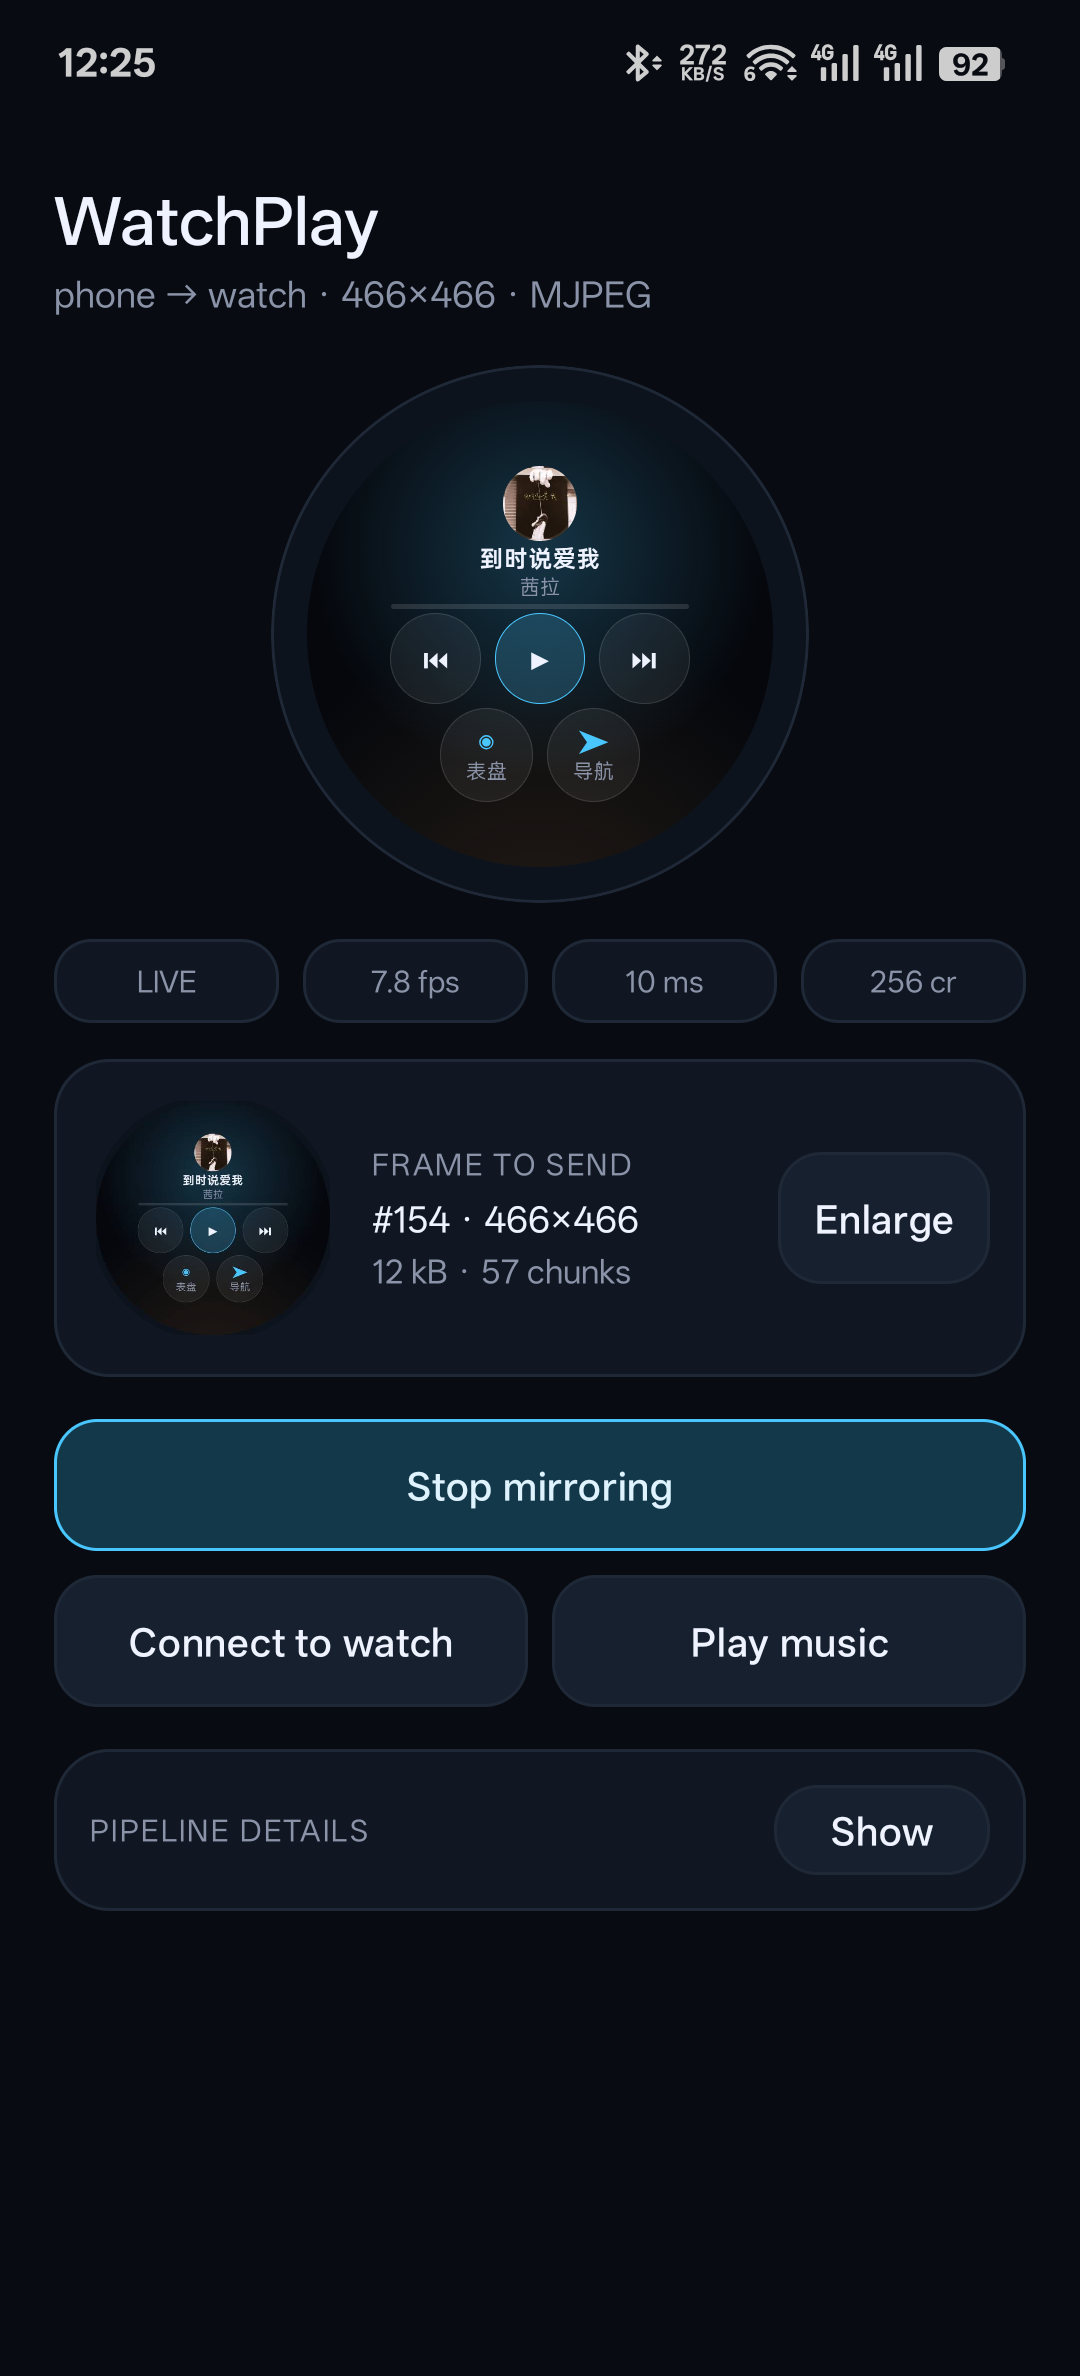
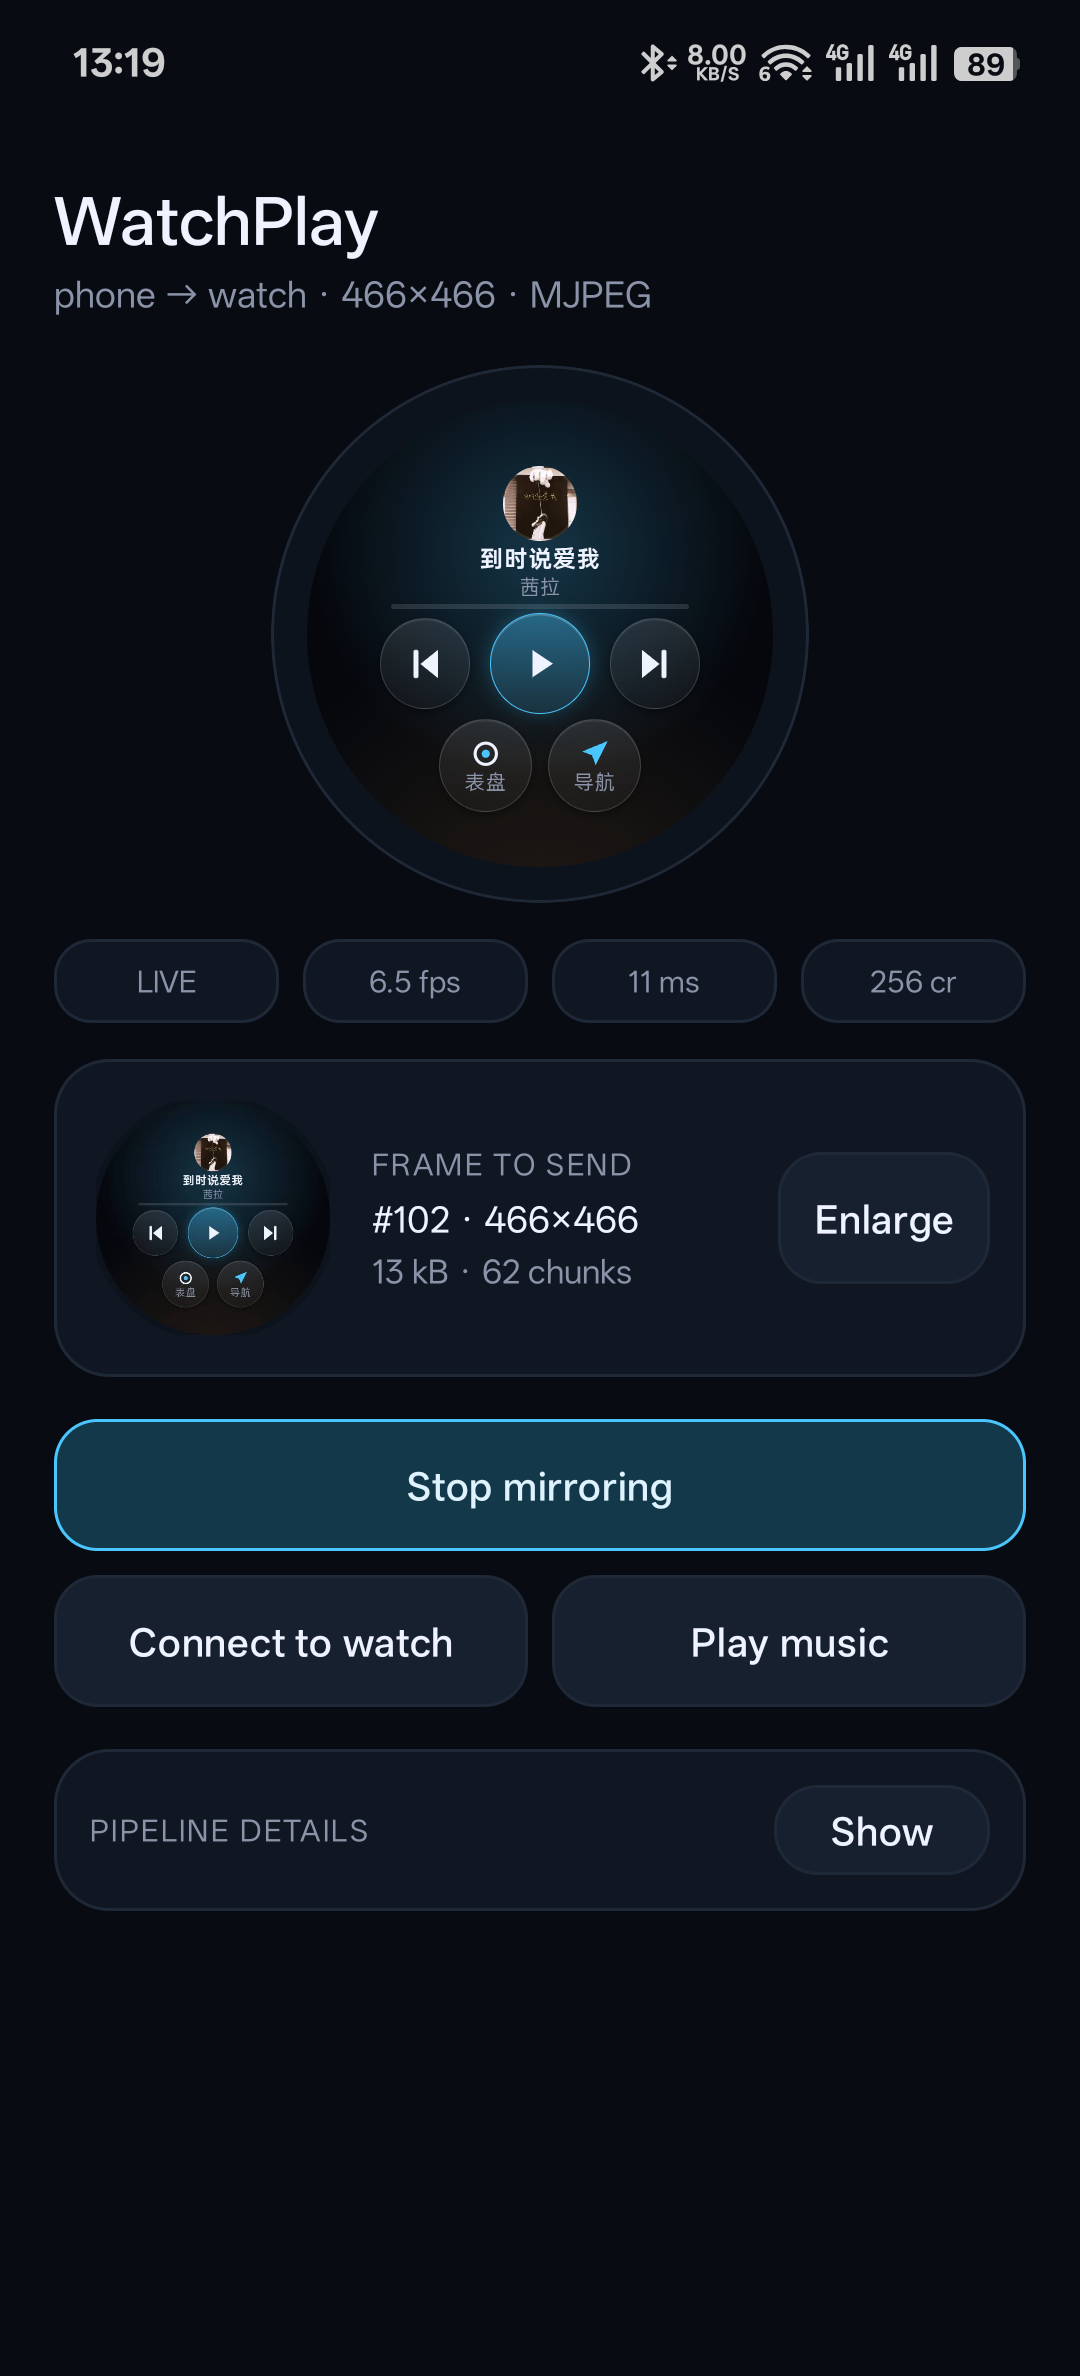
demo: draw the scene's buttons instead of styling characters
The controls were flat circles around text glyphs (⏮ ▶ ⏭ ♪ ➤ ◉). The triangle never sat in the middle
of its circle because the advance width of a font glyph is not its ink, the stroke weights differed per
platform font, and swapping play/pause meant rewriting `textContent`. They are inline SVG on a 24×24
grid now — optical centres, one weight, and the two play states are a `data-playing` attribute.

The buttons themselves carry a vertical gradient, an inner highlight and a drop shadow, so at 466 px and
10 fps they read as raised surfaces rather than a translucent wash; the primary control gets a cyan ring
and glow to stay the one obvious target.

diff --git a/examples/watch-ui/demo-scene.html b/examples/watch-ui/demo-scene.html
@@ -70,17 +70,31 @@ html,body{
 
 /* ---------------------------------------------------------------- 底部切换 */
 /* 只放"别的页面"：当前页面不给自己的入口，也不会和场景里的按钮重复。 */
-.tabs{ display:flex; gap:3vmin; align-items:center; justify-content:center; }
-.btn-switch{
-  width:20vmin; height:20vmin; border-radius:50%;
-  display:flex; flex-direction:column; align-items:center; justify-content:center; gap:.5vmin;
-  background:rgba(255,255,255,.06); border:.35vmin solid rgba(255,255,255,.12);
-  color:var(--wp-fg); font-size:4.4vmin; font-family:inherit;
-  transition:background .12s linear, border-color .12s linear;
+.tabs{ display:flex; gap:3.4vmin; align-items:center; justify-content:center; }
+/*
+  按钮的三层不再是"一个半透明圆 + 一条细边"：竖向渐变给一点厚度，内高光把上沿点亮，
+  外投影让它离开背景。10 fps 捕获下，这比纯平色更容易看出是个可按的实体。
+*/
+.btn-switch, .btn-ctl{
+  position:relative; margin:0; padding:0; border-radius:50%;
+  display:flex; align-items:center; justify-content:center;
+  background:linear-gradient(180deg, rgba(255,255,255,.105), rgba(255,255,255,.032));
+  border:.35vmin solid rgba(255,255,255,.14);
+  box-shadow:inset 0 .35vmin 0 rgba(255,255,255,.075), 0 .7vmin 1.8vmin rgba(0,0,0,.38);
+  color:var(--wp-fg); font-family:inherit;
+  transition:background .1s linear, border-color .1s linear, transform .1s ease-out, box-shadow .1s linear;
 }
-.btn-switch .ico{ font-size:7vmin; line-height:1; color:var(--wp-accent); }
-.btn-switch .lbl{ font-size:4.4vmin; color:var(--wp-dim); }
-.btn-switch:active{ background:rgba(74,198,255,.22); border-color:var(--wp-accent); }
+.btn-switch:active, .btn-ctl:active{ transform:scale(.955); }
+
+.btn-switch{
+  width:20vmin; height:20vmin; flex-direction:column; gap:.7vmin;
+}
+.btn-switch svg{ width:7.2vmin; height:7.2vmin; fill:var(--wp-accent); }
+.btn-switch .lbl{ font-size:4.4vmin; line-height:1; color:var(--wp-dim); letter-spacing:.1vmin; }
+.btn-switch:active{
+  background:linear-gradient(180deg, rgba(74,198,255,.30), rgba(74,198,255,.10));
+  border-color:var(--wp-accent);
+}
 
 /* ---------------------------------------------------------------- 表盘 */
 .bg-face{
@@ -135,17 +149,25 @@ html,body{
   overflow:hidden;
 }
 .progress i{ display:block; width:38%; height:100%; background:var(--wp-accent); }
-.controls{ display:flex; gap:3vmin; align-items:center; }
-.btn-ctl{
-  width:19.4vmin; height:19.4vmin; border-radius:50%;
-  display:flex; align-items:center; justify-content:center;
-  background:rgba(255,255,255,.06); border:.35vmin solid rgba(255,255,255,.12);
-  color:var(--wp-fg); font-size:5.6vmin; font-family:inherit;
-}
+.controls{ display:flex; gap:4.2vmin; align-items:center; }
+.btn-ctl{ width:19.4vmin; height:19.4vmin; }
+/* 图标用内联 SVG 而不是 ⏮▶⏭ 字符：字形宽度随系统字体变，播放三角在圆里永远偏右。 */
+.btn-ctl svg{ width:52%; height:52%; fill:currentColor; }
 .btn-ctl[data-primary="1"]{
-  background:rgba(74,198,255,.20); border-color:var(--wp-accent); font-size:6.4vmin;
+  width:21.6vmin; height:21.6vmin;
+  background:linear-gradient(180deg, rgba(74,198,255,.40), rgba(74,198,255,.14));
+  border-color:var(--wp-accent);
+  box-shadow:0 0 3.4vmin rgba(74,198,255,.32),
+             inset 0 .35vmin 0 rgba(255,255,255,.18),
+             0 .8vmin 2.2vmin rgba(0,0,0,.42);
 }
-.btn-ctl:active{ background:rgba(74,198,255,.30); }
+.btn-ctl[data-primary="1"] svg{ width:46%; height:46%; }
+.btn-ctl:active{ background:linear-gradient(180deg, rgba(255,255,255,.16), rgba(255,255,255,.06)); }
+.btn-ctl[data-primary="1"]:active{ background:linear-gradient(180deg, rgba(74,198,255,.52), rgba(74,198,255,.22)); }
+/* 播放/暂停是同一个按钮的两态：由 dataset.playing 切换，不用再改写 textContent。 */
+.btn-ctl .ico-pause{ display:none; }
+.btn-ctl[data-playing="1"] .ico-play{ display:none; }
+.btn-ctl[data-playing="1"] .ico-pause{ display:block; }
 
 /* ---------------------------------------------------------------- 导航 */
 .bg-map{ overflow:hidden; }
@@ -201,8 +223,8 @@ html,body{
     </div>
 
     <div class="tabs">
-      <button class="btn-switch" data-goto="music"><span class="ico">♪</span><span class="lbl">音乐</span></button>
-      <button class="btn-switch" data-goto="map"><span class="ico">➤</span><span class="lbl">导航</span></button>
+      <button class="btn-switch" data-goto="music"><svg viewBox="0 0 24 24" aria-hidden="true"><rect x="14.4" y="3.4" width="1.9" height="10.4" rx=".9"/><path d="M16.3 3.4 20.6 2.2v3.1l-4.3 1.3z"/><ellipse cx="12.2" cy="14.9" rx="3.1" ry="2.5"/></svg><span class="lbl">音乐</span></button>
+      <button class="btn-switch" data-goto="map"><svg viewBox="0 0 24 24" aria-hidden="true"><path d="M21.4 2.8 2.9 10.4l7.1 2.6 2.6 7.1z"/></svg><span class="lbl">导航</span></button>
     </div>
   </div>
 </section>
@@ -222,14 +244,14 @@ html,body{
     <div class="progress"><i id="progress-bar"></i></div>
 
     <div class="controls">
-      <button class="btn-ctl" data-ctl="prev" aria-label="上一首">⏮</button>
-      <button class="btn-ctl" data-ctl="play" data-primary="1" aria-label="播放/暂停">▶</button>
-      <button class="btn-ctl" data-ctl="next" aria-label="下一首">⏭</button>
+      <button class="btn-ctl" data-ctl="prev" aria-label="上一首"><svg viewBox="0 0 24 24" aria-hidden="true"><rect x="6" y="4.6" width="2.6" height="14.8" rx="1.1"/><polygon points="18.8,4.6 9.6,12 18.8,19.4"/></svg></button>
+      <button class="btn-ctl" data-ctl="play" data-primary="1" data-playing="0" aria-label="播放/暂停"><svg class="ico-play" viewBox="0 0 24 24" aria-hidden="true"><polygon points="8.2,4.8 19,12 8.2,19.2"/></svg><svg class="ico-pause" viewBox="0 0 24 24" aria-hidden="true"><rect x="7.2" y="4.6" width="3.5" height="14.8" rx="1.2"/><rect x="13.3" y="4.6" width="3.5" height="14.8" rx="1.2"/></svg></button>
+      <button class="btn-ctl" data-ctl="next" aria-label="下一首"><svg viewBox="0 0 24 24" aria-hidden="true"><rect x="15.4" y="4.6" width="2.6" height="14.8" rx="1.1"/><polygon points="5.2,4.6 14.4,12 5.2,19.4"/></svg></button>
     </div>
 
     <div class="tabs">
-      <button class="btn-switch" data-goto="face"><span class="ico">◉</span><span class="lbl">表盘</span></button>
-      <button class="btn-switch" data-goto="map"><span class="ico">➤</span><span class="lbl">导航</span></button>
+      <button class="btn-switch" data-goto="face"><svg viewBox="0 0 24 24" aria-hidden="true"><circle cx="12" cy="12" r="7.6" fill="none" stroke="currentColor" stroke-width="2.2"/><circle cx="12" cy="12" r="2.9"/></svg><span class="lbl">表盘</span></button>
+      <button class="btn-switch" data-goto="map"><svg viewBox="0 0 24 24" aria-hidden="true"><path d="M21.4 2.8 2.9 10.4l7.1 2.6 2.6 7.1z"/></svg><span class="lbl">导航</span></button>
     </div>
   </div>
 </section>
@@ -264,8 +286,8 @@ html,body{
     </div>
 
     <div class="tabs">
-      <button class="btn-switch" data-goto="face"><span class="ico">◉</span><span class="lbl">表盘</span></button>
-      <button class="btn-switch" data-goto="music"><span class="ico">♪</span><span class="lbl">音乐</span></button>
+      <button class="btn-switch" data-goto="face"><svg viewBox="0 0 24 24" aria-hidden="true"><circle cx="12" cy="12" r="7.6" fill="none" stroke="currentColor" stroke-width="2.2"/><circle cx="12" cy="12" r="2.9"/></svg><span class="lbl">表盘</span></button>
+      <button class="btn-switch" data-goto="music"><svg viewBox="0 0 24 24" aria-hidden="true"><rect x="14.4" y="3.4" width="1.9" height="10.4" rx=".9"/><path d="M16.3 3.4 20.6 2.2v3.1l-4.3 1.3z"/><ellipse cx="12.2" cy="14.9" rx="3.1" ry="2.5"/></svg><span class="lbl">音乐</span></button>
     </div>
   </div>
 </section>
@@ -313,7 +335,6 @@ html,body{
     if (name === "play") {
       var playing = control.dataset.playing === "1";
       control.dataset.playing = playing ? "0" : "1";
-      control.textContent = playing ? "▶" : "❚❚";
       var bar = document.querySelector("#music .progress i");
       bar.style.width = playing ? "38%" : "100%";
     }
@@ -374,7 +395,7 @@ html,body{
     if (d.playing !== undefined) {
       var on = String(d.playing) === "true";
       var button = document.querySelector('#music [data-ctl="play"]');
-      if (button) { button.dataset.playing = on ? "1" : "0"; button.textContent = on ? "❚❚" : "▶"; }
+      if (button) button.dataset.playing = on ? "1" : "0";
     }
   }
 
